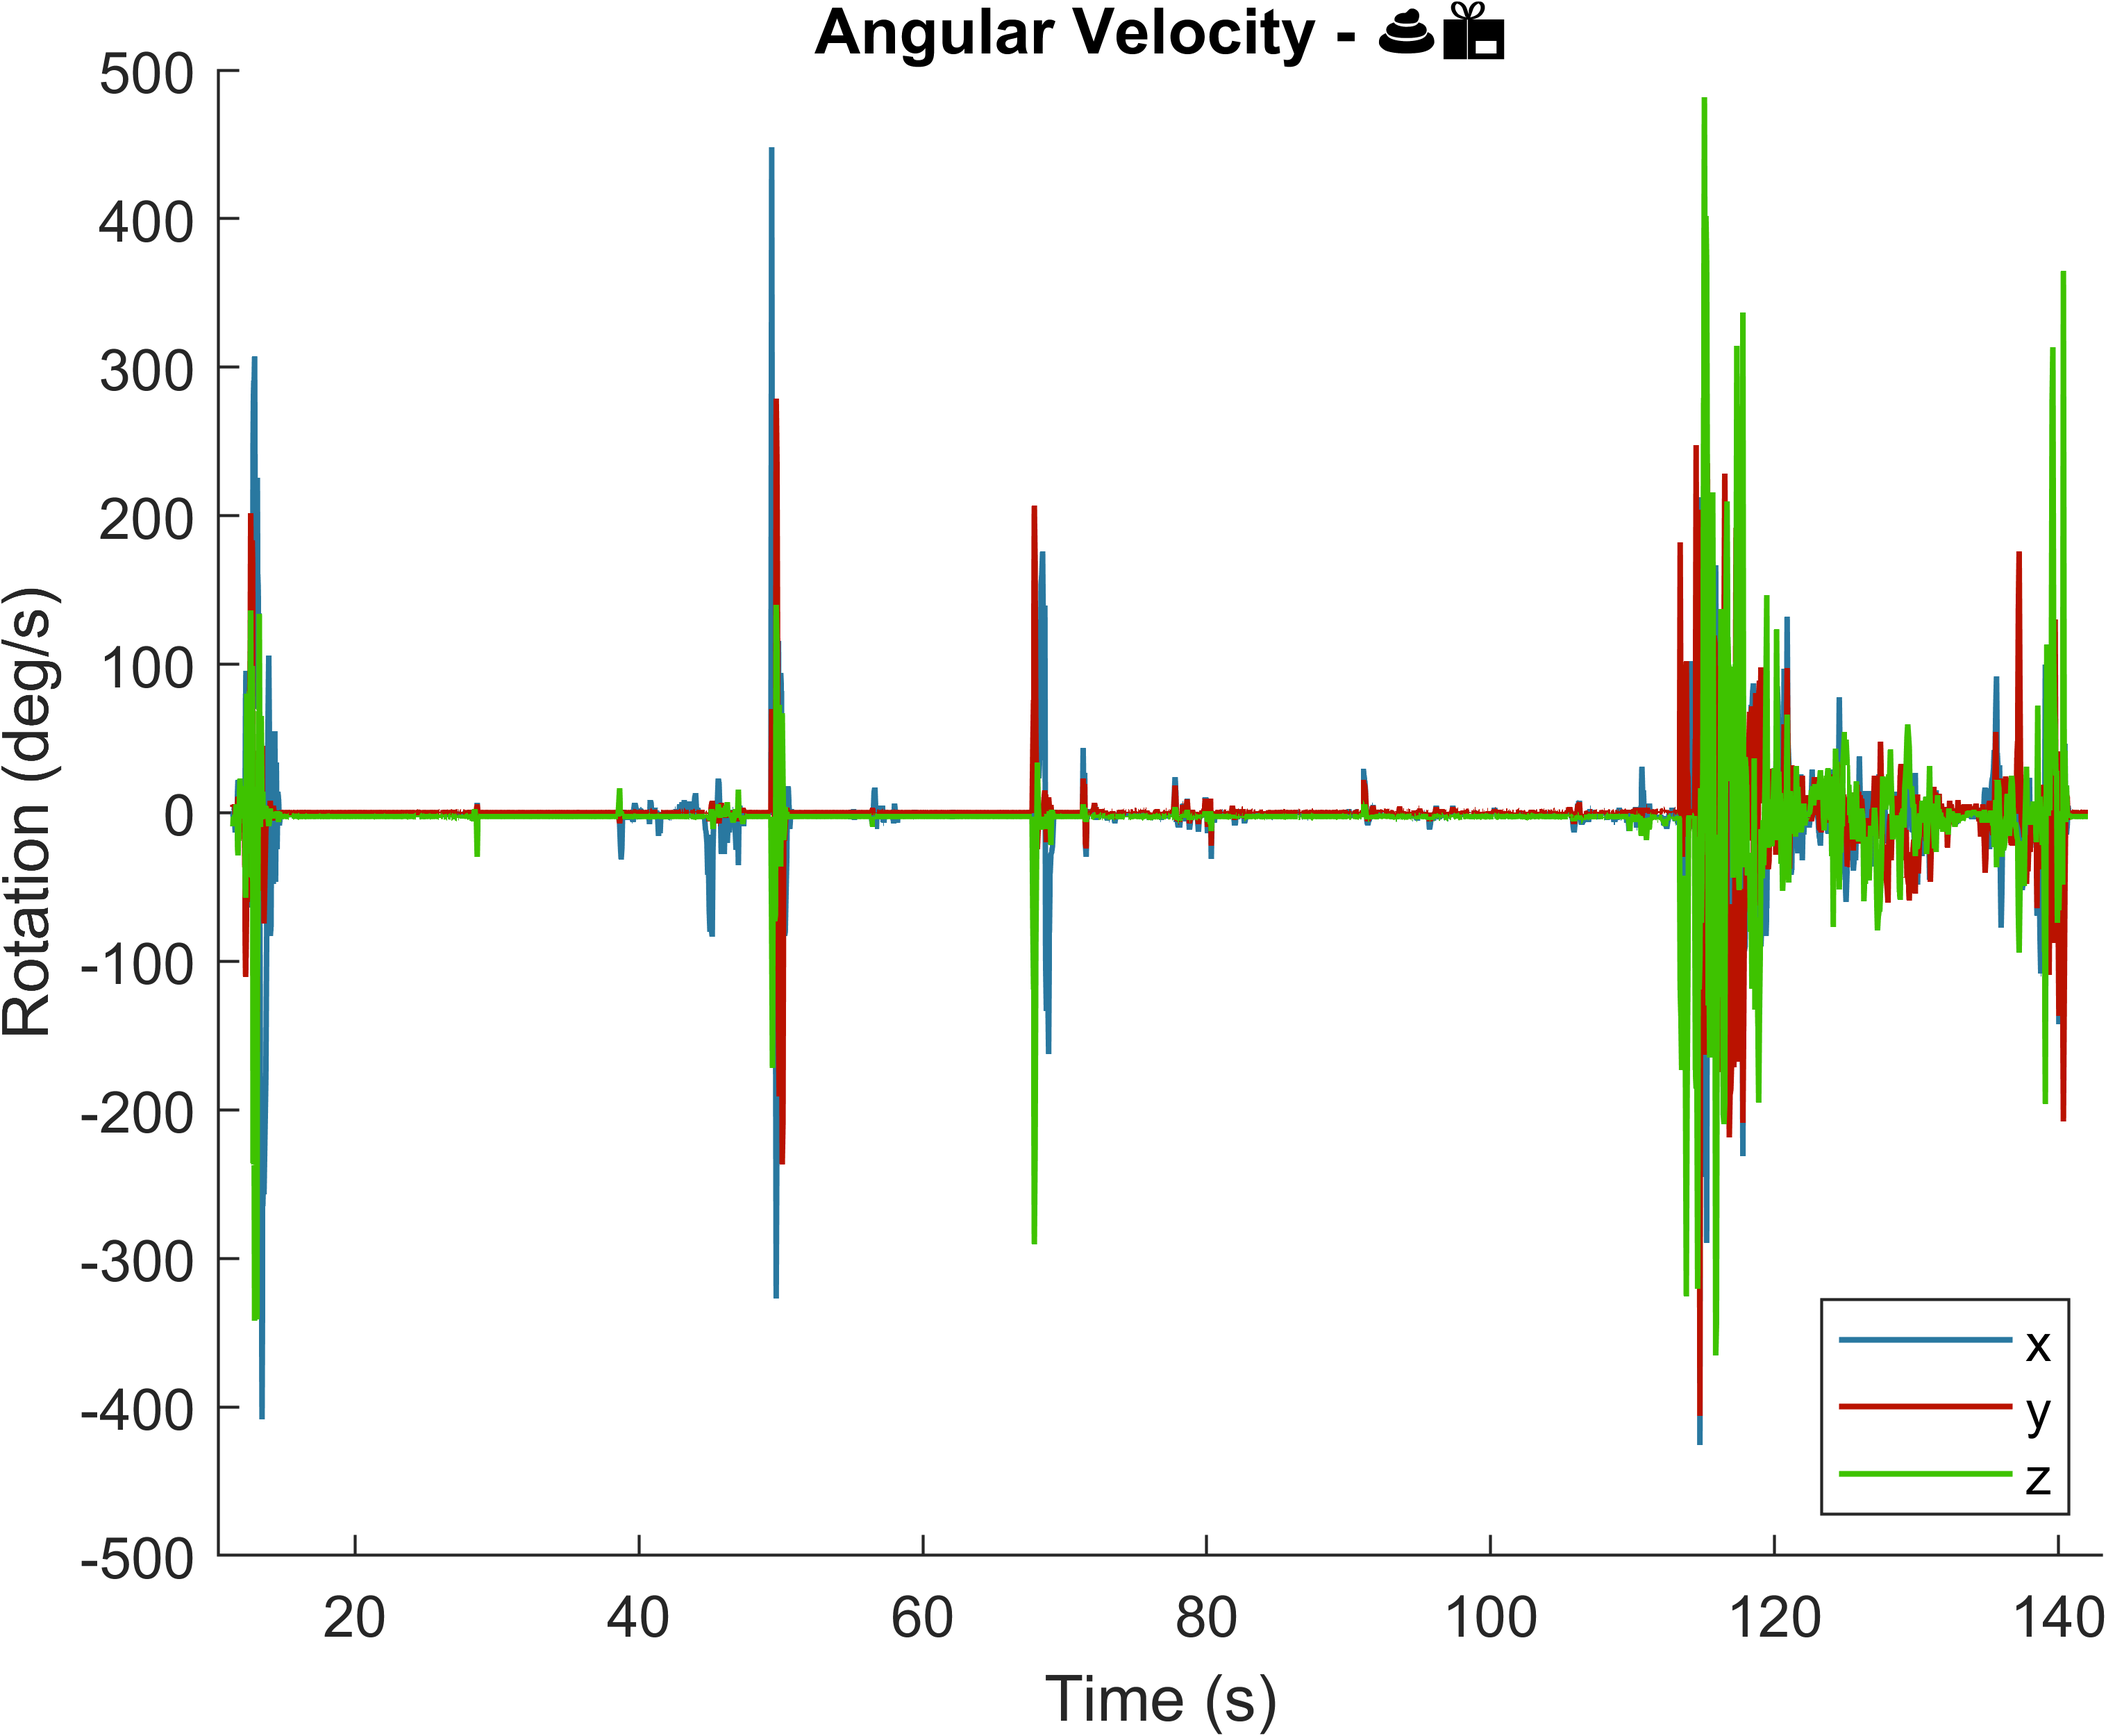
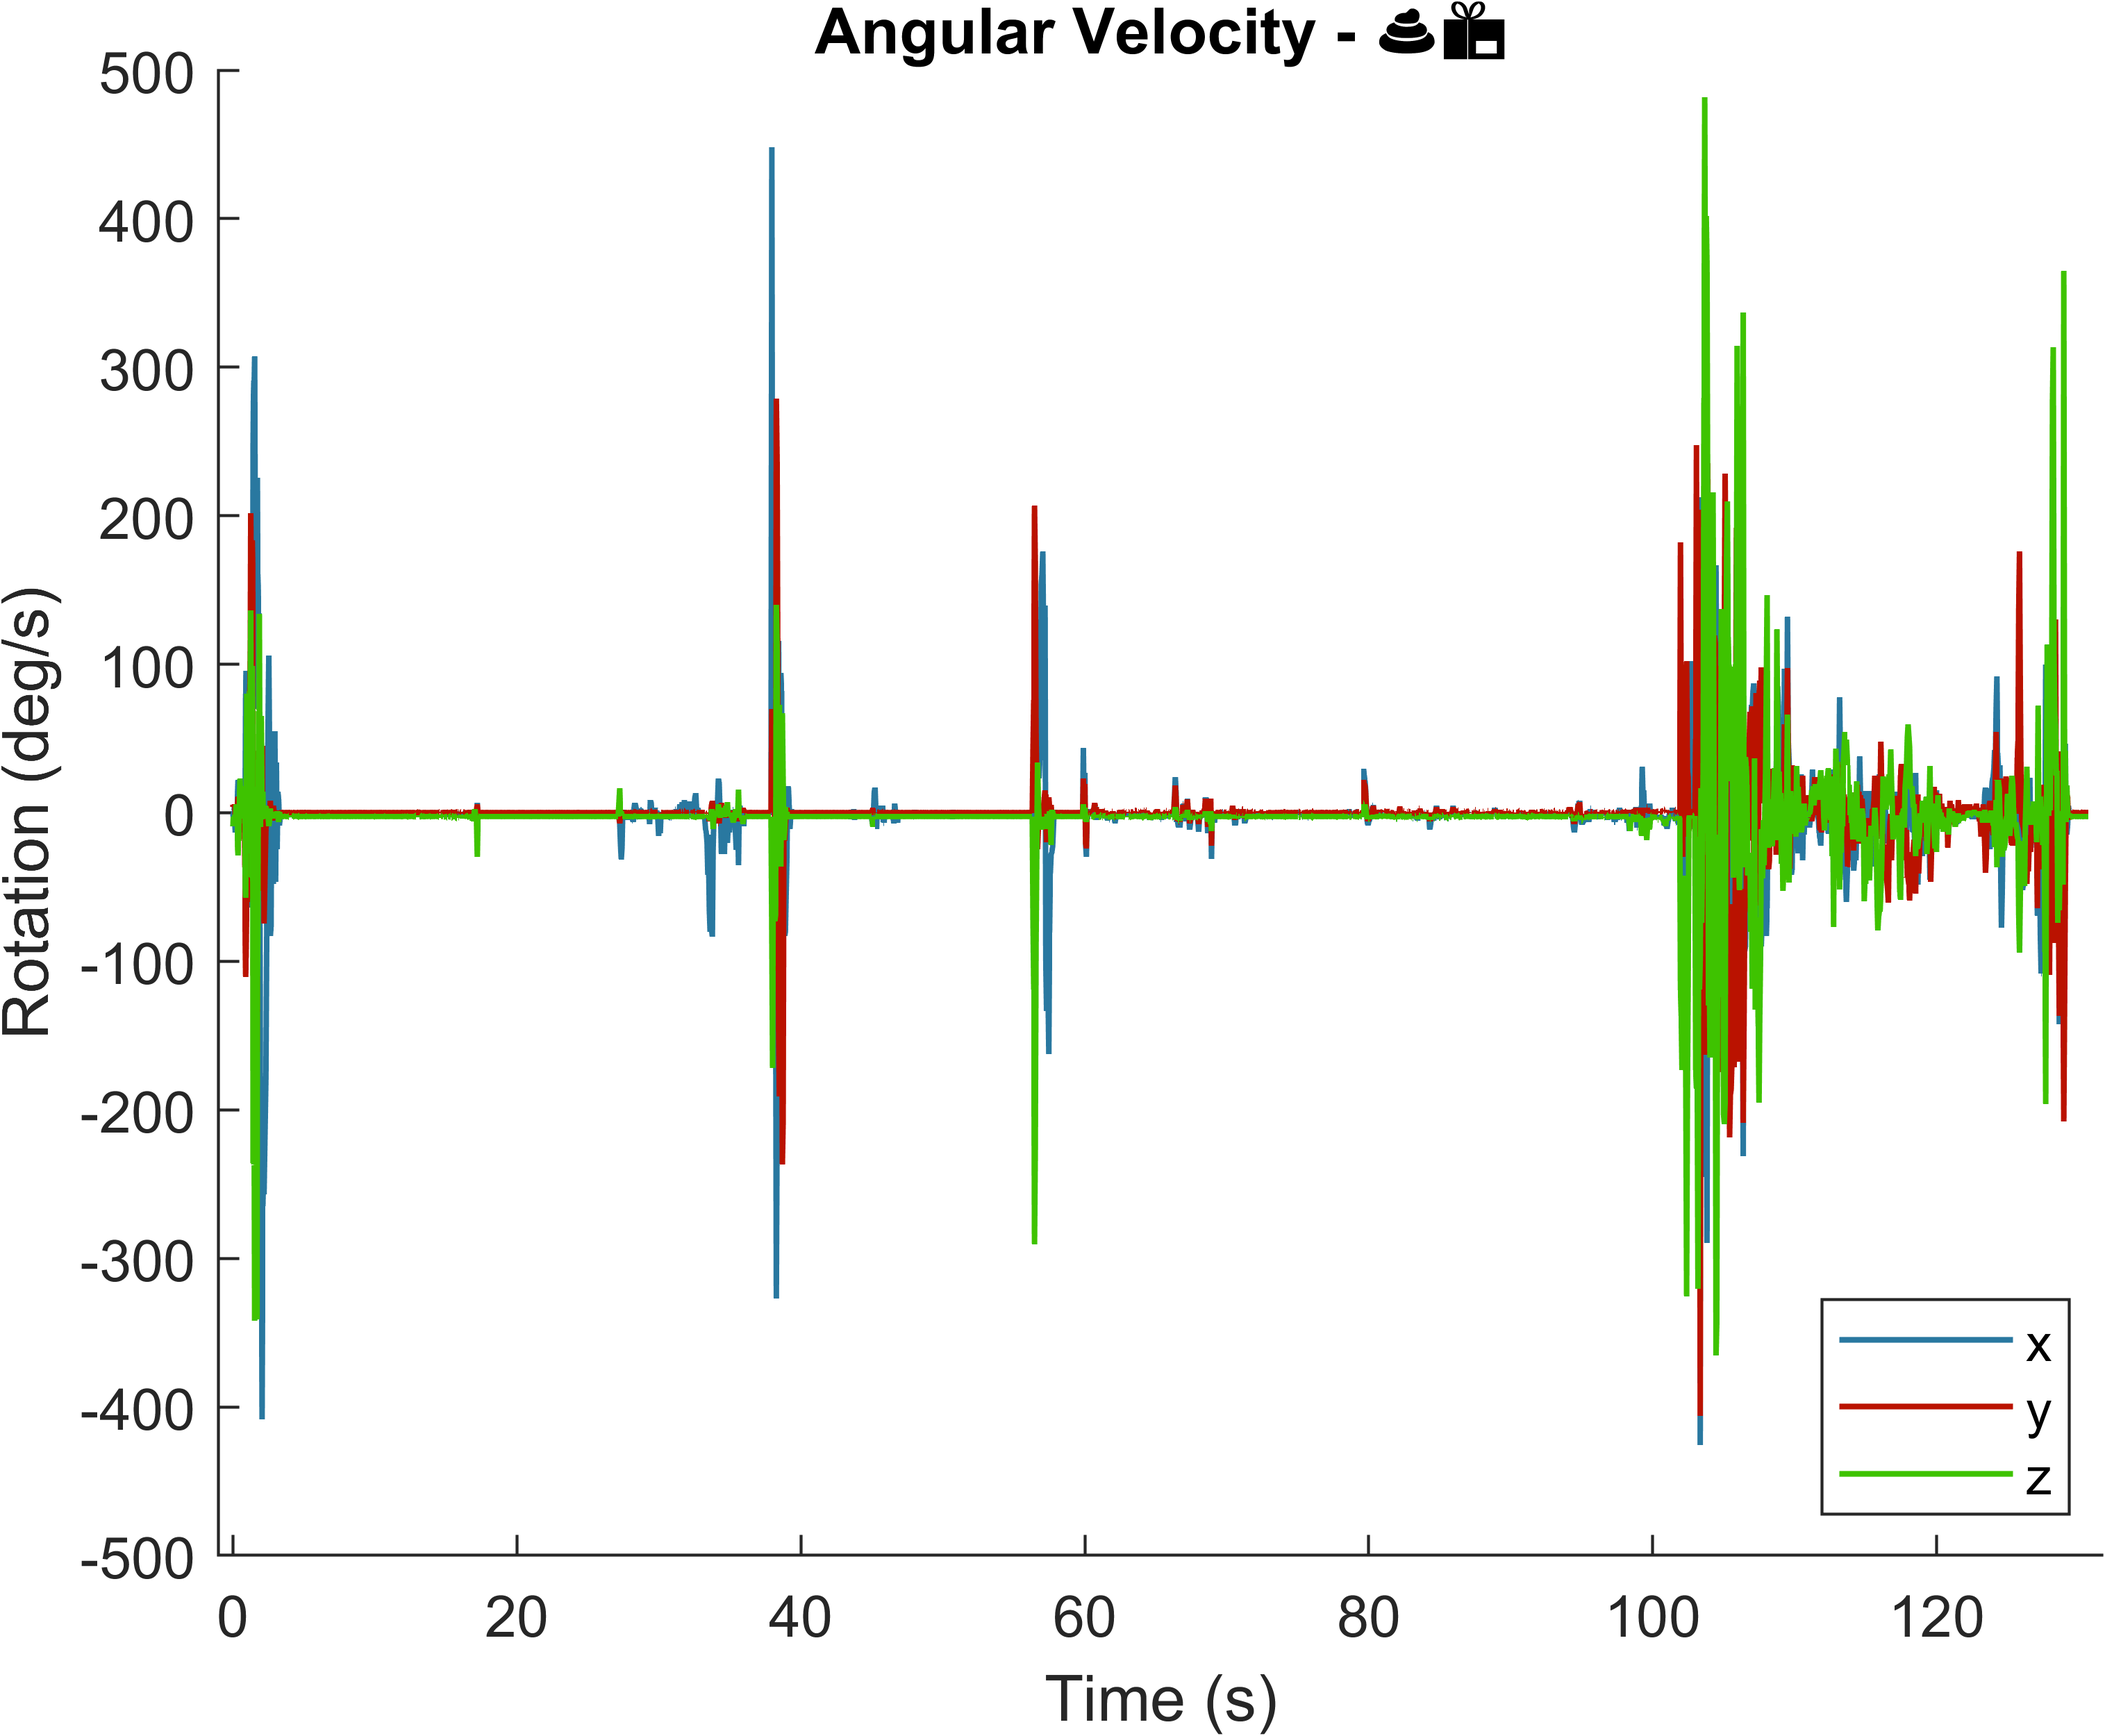
shift t values to be from recording start

diff --git a/astra.m b/astra.m
@@ -25,6 +25,8 @@ g_z = data(:, 9);
 
 % convert from ms to s
 t = t/1000;
+% shift t values to recording start
+t = t - min(t);
 
 figure
 hold on
